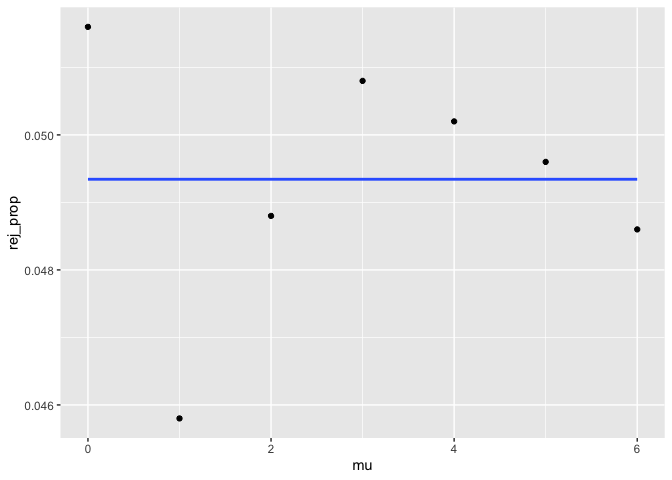
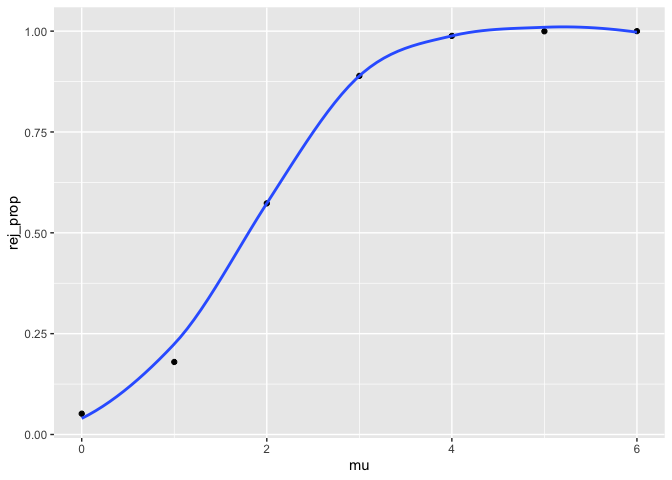
Changing the structure of folder, adding description to problem3 and final knitting.

diff --git a/p8105_hw5_yj2752.md b/p8105_hw5_yj2752.md
@@ -2,21 +2,11 @@ P8105_hw5_yj2752
 ================
 Yixuan Jiao
 
+## Import pacakges
+
 ``` r
 library(purrr)
 library(tidyverse)
-```
-
-    ## ── Attaching packages ─────────────────────────────────────── tidyverse 1.3.2 ──
-    ## ✔ ggplot2 3.3.6      ✔ dplyr   1.0.10
-    ## ✔ tibble  3.1.8      ✔ stringr 1.4.1 
-    ## ✔ tidyr   1.2.0      ✔ forcats 0.5.2 
-    ## ✔ readr   2.1.2      
-    ## ── Conflicts ────────────────────────────────────────── tidyverse_conflicts() ──
-    ## ✖ dplyr::filter() masks stats::filter()
-    ## ✖ dplyr::lag()    masks stats::lag()
-
-``` r
 set.seed(42)
 ```
 
@@ -26,8 +16,8 @@ Reading all csv merge them into a single file
 
 ``` r
 exp_table <- 
-  tibble(id = list.files("./data")) %>%
-  mutate(file_dir = str_c("./data/",id)) %>%
+  tibble(id = list.files("./data/p1")) %>%
+  mutate(file_dir = str_c("./data/p1/",id)) %>%
   mutate(data = map(file_dir, read_csv)) %>%
   unnest(data)
 ```
@@ -40,12 +30,19 @@ exp_table_tidy <-
   select(-file_dir) %>%
   mutate(id = str_replace(id,".csv","")) %>%
   separate(id,into = c("group","id"), sep = "_") %>%
-  pivot_longer(week_1:week_8,names_to = "week", names_prefix = "week_",values_to = "data") 
+  pivot_longer(week_1:week_8,names_to = "week", names_prefix = "week_",values_to = "data")
+head(exp_table_tidy)
 ```
 
-    ## Warning: Expected 2 pieces. Missing pieces filled with `NA` in 52179 rows
-    ## [21, 22, 23, 24, 25, 26, 27, 28, 29, 30, 31, 32, 33, 34, 35, 36, 37, 38, 39,
-    ## 40, ...].
+    ## # A tibble: 6 × 4
+    ##   group id    week   data
+    ##   <chr> <chr> <chr> <dbl>
+    ## 1 con   01    1      0.2 
+    ## 2 con   01    2     -1.31
+    ## 3 con   01    3      0.66
+    ## 4 con   01    4      1.96
+    ## 5 con   01    5      0.23
+    ## 6 con   01    6      1.09
 
 ## Problem2
 
@@ -108,12 +105,13 @@ Data summary
 | lat           |        60 |             1 |       37.03 |       4.35 |       25.73 |       33.77 |       38.52 |       40.03 |         45.05 | ▁▅▅▇▅ |
 | lon           |        60 |             1 |      -91.47 |      13.75 |     -122.51 |      -96.00 |      -87.71 |      -81.76 |        -71.01 | ▃▁▃▇▅ |
 
-Adding `city_state` column
+Adding `city_state` column, and correct a potential input error.
 
 ``` r
 homicide <- 
   homicide %>%
-  mutate(city_state = str_c(city,",",state))
+  mutate(city_state = str_c(city,",",state)) %>%
+  mutate(city_state = replace(city_state,city_state == "Tulsa,AL","Tulsa,OK"))
 ```
 
 Generate the table of number of unsolved cases by cities
@@ -136,8 +134,7 @@ total <-
     summarise(total = n())
 
 cases_prop <- 
-  full_join(total,unsolved) %>%
-  replace(is.na(.),0)
+  full_join(total,unsolved)
 ```
 
     ## Joining, by = "city_state"
@@ -170,8 +167,6 @@ cases_prop <-
   select(city_state,estimate,conf.low,conf.high)
 ```
 
-    ## Warning in prop.test(x = .x, n = .y): Chi-squared approximation may be incorrect
-
 Reorder the cities by the value of estimate proportion then generate the
 point plot with error bar, presenting the estimate proportion of
 unsolved homicide cases of each state.
@@ -182,6 +177,8 @@ cases_prop %>%
   ggplot(aes(x = city_state, y = estimate)) +
   geom_point() +
   geom_errorbar(aes(ymin = conf.low, ymax = conf.high)) +
+  labs(x = "City",
+       y = "Estimated Proportion of Unsolved Crime") +
   theme(axis.text.x = element_text(angle = 90, vjust = 0.5, hjust=1))
 ```
 
@@ -196,18 +193,41 @@ test statistics and p-value.
 norm_sim <- function(mu, n = 30, sd = 5) {
   x <- rnorm(n,mean = mu, sd = sd)
   x %>%
-    t.test(mu = mu) %>%
+    t.test(mu = 0) %>%
     broom::tidy() %>%
     select(estimate,p.value)
 }
 ```
 
-Iterate 5000 times for $\mu = \{0,1,2,3,4,5,6\}$
+Apply function to $\mu = 0$ for 5000 times.
+
+``` r
+expand_grid(
+  mu =0,
+  iteration = 1:5000
+) %>%
+  mutate(sim_result = map(mu,norm_sim)) %>%
+  unnest(sim_result) %>% 
+  select(-iteration) %>%
+  head()
+```
+
+    ## # A tibble: 6 × 3
+    ##      mu estimate p.value
+    ##   <dbl>    <dbl>   <dbl>
+    ## 1     0   0.343    0.767
+    ## 2     0  -0.610    0.530
+    ## 3     0   0.954    0.193
+    ## 4     0  -0.0942   0.921
+    ## 5     0  -1.31     0.100
+    ## 6     0  -0.0841   0.920
+
+Iterate 5000 times for each of $\mu = \{1,2,3,4,5,6\}$
 
 ``` r
 result_df <-
   expand_grid(
-    mu =0:6,
+    mu = 1:6,
     iteration = 1:5000
   ) %>%
     mutate(sim_result = map(mu,norm_sim)) %>%
@@ -236,14 +256,29 @@ result_df <- full_join(df_all,df_rej)
 
     ## Joining, by = "mu"
 
+As the effect size gets larger, the power (proportion of rejection) is
+getting larger. Since the distributions generated
+
 ``` r
 result_df %>%
   ggplot(aes(x = mu,y = rej_prop)) +
   geom_point() +
-  geom_smooth(method='lm',formula = y ~ x,se = FALSE)
+  geom_smooth(se = FALSE) +
+  labs(x = "Mean of Distributions",y = "Proportion of Rejection (Power)")
 ```
 
-![](p8105_hw5_yj2752_files/figure-gfm/unnamed-chunk-15-1.png)<!-- -->
+    ## `geom_smooth()` using method = 'loess' and formula 'y ~ x'
+
+![](p8105_hw5_yj2752_files/figure-gfm/unnamed-chunk-16-1.png)<!-- -->
+Since the datasets are generated by a true mean and given n and sigma,
+the average $\hat{\mu}$ of total 5000 simulated datasets would always
+close to its true mean, but as the true mean is small (or closed to 0),
+part of $\hat{\mu}$ would fail to be rejected since it closes to 0. Then
+the average $\hat{\mu}$ of rejection part would be higher than its true
+mean. As the true mean gets larger, the proportion of rejection is very
+large since most of the $\hat{\mu}$ would be different from 0. So the
+average $\hat{\mu}$ of null rejected subsets would more and more closer
+and eventually approximately equal to the simulated and true mean.
 
 ``` r
 result_df %>%
@@ -251,7 +286,10 @@ result_df %>%
                names_to = "sample_means",
                values_to = "average_estimate") %>%
   ggplot(aes(x = mu,y = average_estimate, color = sample_means)) +
-  geom_point()
+  geom_point() +
+  labs(x = "Mean of Distributions",
+       y = "Average Esimate by Subsets",
+       color = "Subsets")
 ```
 
-![](p8105_hw5_yj2752_files/figure-gfm/unnamed-chunk-16-1.png)<!-- -->
+![](p8105_hw5_yj2752_files/figure-gfm/unnamed-chunk-17-1.png)<!-- -->
